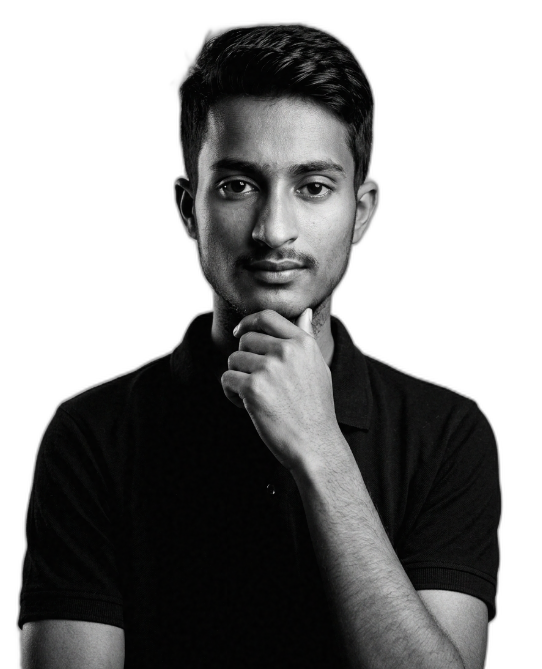
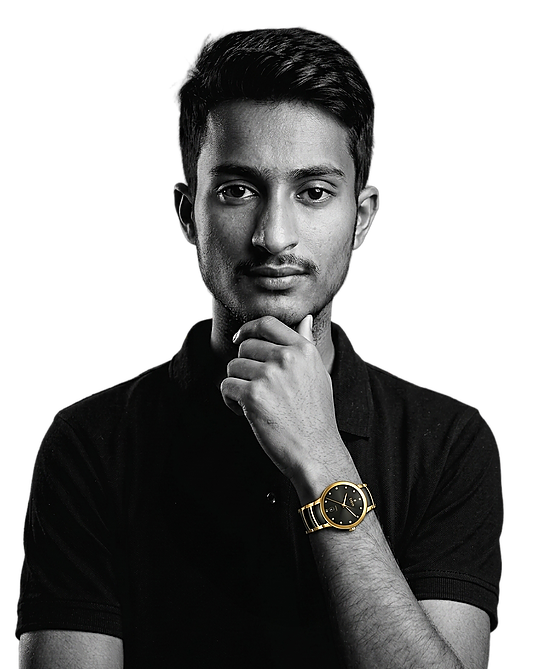
Update portfolio design

diff --git a/src/index.css b/src/index.css
@@ -685,7 +685,7 @@ input, textarea {
 /* Giant Headline across the upper hero */
 .hero-giant-headline {
   position: absolute;
-  top: clamp(100px, 14vh, 155px);
+  top: clamp(80px, 10.5vh, 120px);
   left: 0;
   width: 100%;
   display: flex;
@@ -694,7 +694,7 @@ input, textarea {
   user-select: none;
   pointer-events: none;
   z-index: 1;
-  padding-inline: 1rem;
+  padding-inline: 1.5rem;
 }
 
 .hero-giant-svg {
@@ -731,14 +731,15 @@ input, textarea {
   fill: #111111;
 }
 
-/* Center Cutout Portrait of Satya overlapping the typography - STABLE IN CENTER, NOT MOVABLE */
+/* Center Cutout Portrait of Satya - STABLE IN CENTER, POSITIONED BELOW SATYA RAM WITHOUT TOUCHING */
 .hero-center-portrait {
   position: absolute;
   bottom: 0;
   left: 50% !important;
   transform: translateX(-50%) !important;
   z-index: 2;
-  height: clamp(480px, 78vh, 760px);
+  height: clamp(370px, 50vh, 480px);
+  max-height: calc(100vh - 280px);
   width: auto;
   pointer-events: none !important;
   user-select: none !important;
@@ -752,6 +753,21 @@ input, textarea {
   align-items: flex-end;
   justify-content: center;
   transition: none !important;
+}
+
+.hero-center-portrait::before {
+  content: '';
+  position: absolute;
+  top: 50%;
+  left: 50%;
+  transform: translate(-50%, -50%);
+  width: clamp(240px, 35vw, 420px);
+  height: clamp(240px, 35vw, 420px);
+  background: radial-gradient(circle, rgba(200, 241, 105, 0.14) 0%, rgba(244, 243, 238, 0.3) 45%, transparent 70%);
+  border-radius: 50%;
+  pointer-events: none;
+  z-index: -1;
+  filter: blur(25px);
 }
 
 .hero-portrait-stable {
@@ -768,7 +784,7 @@ input, textarea {
   max-width: none;
   object-fit: contain;
   object-position: bottom center;
-  filter: grayscale(100%) contrast(110%) brightness(102%) drop-shadow(0 14px 28px rgba(0, 0, 0, 0.12));
+  filter: contrast(110%) brightness(102%) drop-shadow(0 16px 32px rgba(0, 0, 0, 0.14));
   image-rendering: -webkit-optimize-contrast;
   display: block;
   pointer-events: none !important;
@@ -4064,7 +4080,7 @@ input, textarea {
     max-width: 85%;
     object-fit: contain;
     object-position: center;
-    filter: grayscale(100%) contrast(110%) brightness(102%) drop-shadow(0 12px 24px rgba(0, 0, 0, 0.12));
+    filter: contrast(110%) brightness(102%) drop-shadow(0 12px 24px rgba(0, 0, 0, 0.12));
     image-rendering: -webkit-optimize-contrast;
     margin-inline: auto;
   }
@@ -4463,7 +4479,7 @@ input, textarea {
 
   .center-cutout-img {
     max-width: 80%;
-    filter: grayscale(100%) contrast(110%) brightness(102%) drop-shadow(0 10px 20px rgba(0, 0, 0, 0.12));
+    filter: contrast(110%) brightness(102%) drop-shadow(0 10px 20px rgba(0, 0, 0, 0.12));
   }
 
   .hero-cta-group {

diff --git a/styles.css b/styles.css
@@ -681,7 +681,7 @@ input, textarea {
 /* Giant Headline across the upper hero */
 .hero-giant-headline {
   position: absolute;
-  top: clamp(100px, 14vh, 155px);
+  top: clamp(80px, 10.5vh, 120px);
   left: 0;
   width: 100%;
   display: flex;
@@ -690,7 +690,7 @@ input, textarea {
   user-select: none;
   pointer-events: none;
   z-index: 1;
-  padding-inline: 1rem;
+  padding-inline: 1.5rem;
 }
 
 .hero-giant-svg {
@@ -722,14 +722,15 @@ input, textarea {
   fill: #111111;
 }
 
-/* Center Cutout Portrait of Satya overlapping the typography */
+/* Center Cutout Portrait of Satya - STABLE IN CENTER, POSITIONED BELOW SATYA RAM WITHOUT TOUCHING */
 .hero-center-portrait {
   position: absolute;
   bottom: 0;
   left: 50%;
   transform: translateX(-50%);
   z-index: 2;
-  height: clamp(480px, 78vh, 760px);
+  height: clamp(370px, 50vh, 480px);
+  max-height: calc(100vh - 280px);
   width: auto;
   pointer-events: none;
   display: flex;
@@ -738,13 +739,28 @@ input, textarea {
   transition: transform 0.25s cubic-bezier(0.2, 0.8, 0.2, 1);
 }
 
+.hero-center-portrait::before {
+  content: '';
+  position: absolute;
+  top: 50%;
+  left: 50%;
+  transform: translate(-50%, -50%);
+  width: clamp(240px, 35vw, 420px);
+  height: clamp(240px, 35vw, 420px);
+  background: radial-gradient(circle, rgba(200, 241, 105, 0.14) 0%, rgba(244, 243, 238, 0.3) 45%, transparent 70%);
+  border-radius: 50%;
+  pointer-events: none;
+  z-index: -1;
+  filter: blur(25px);
+}
+
 .center-cutout-img {
   height: 100%;
   width: auto;
   max-width: none;
   object-fit: contain;
   object-position: bottom center;
-  filter: grayscale(100%) contrast(110%) brightness(102%) drop-shadow(0 14px 28px rgba(0, 0, 0, 0.12));
+  filter: contrast(110%) brightness(102%) drop-shadow(0 16px 32px rgba(0, 0, 0, 0.14));
   image-rendering: -webkit-optimize-contrast;
   display: block;
   transition: filter 0.3s ease;
@@ -2549,7 +2565,7 @@ input, textarea {
     max-width: 85%;
     object-fit: contain;
     object-position: center;
-    filter: grayscale(100%) contrast(110%) brightness(102%) drop-shadow(0 12px 24px rgba(0, 0, 0, 0.12));
+    filter: contrast(110%) brightness(102%) drop-shadow(0 12px 24px rgba(0, 0, 0, 0.12));
     image-rendering: -webkit-optimize-contrast;
     margin-inline: auto;
   }
@@ -2663,7 +2679,7 @@ input, textarea {
 
   .center-cutout-img {
     max-width: 80%;
-    filter: grayscale(100%) contrast(110%) brightness(102%) drop-shadow(0 10px 20px rgba(0, 0, 0, 0.12));
+    filter: contrast(110%) brightness(102%) drop-shadow(0 10px 20px rgba(0, 0, 0, 0.12));
   }
 
   .hero-cta-group {
